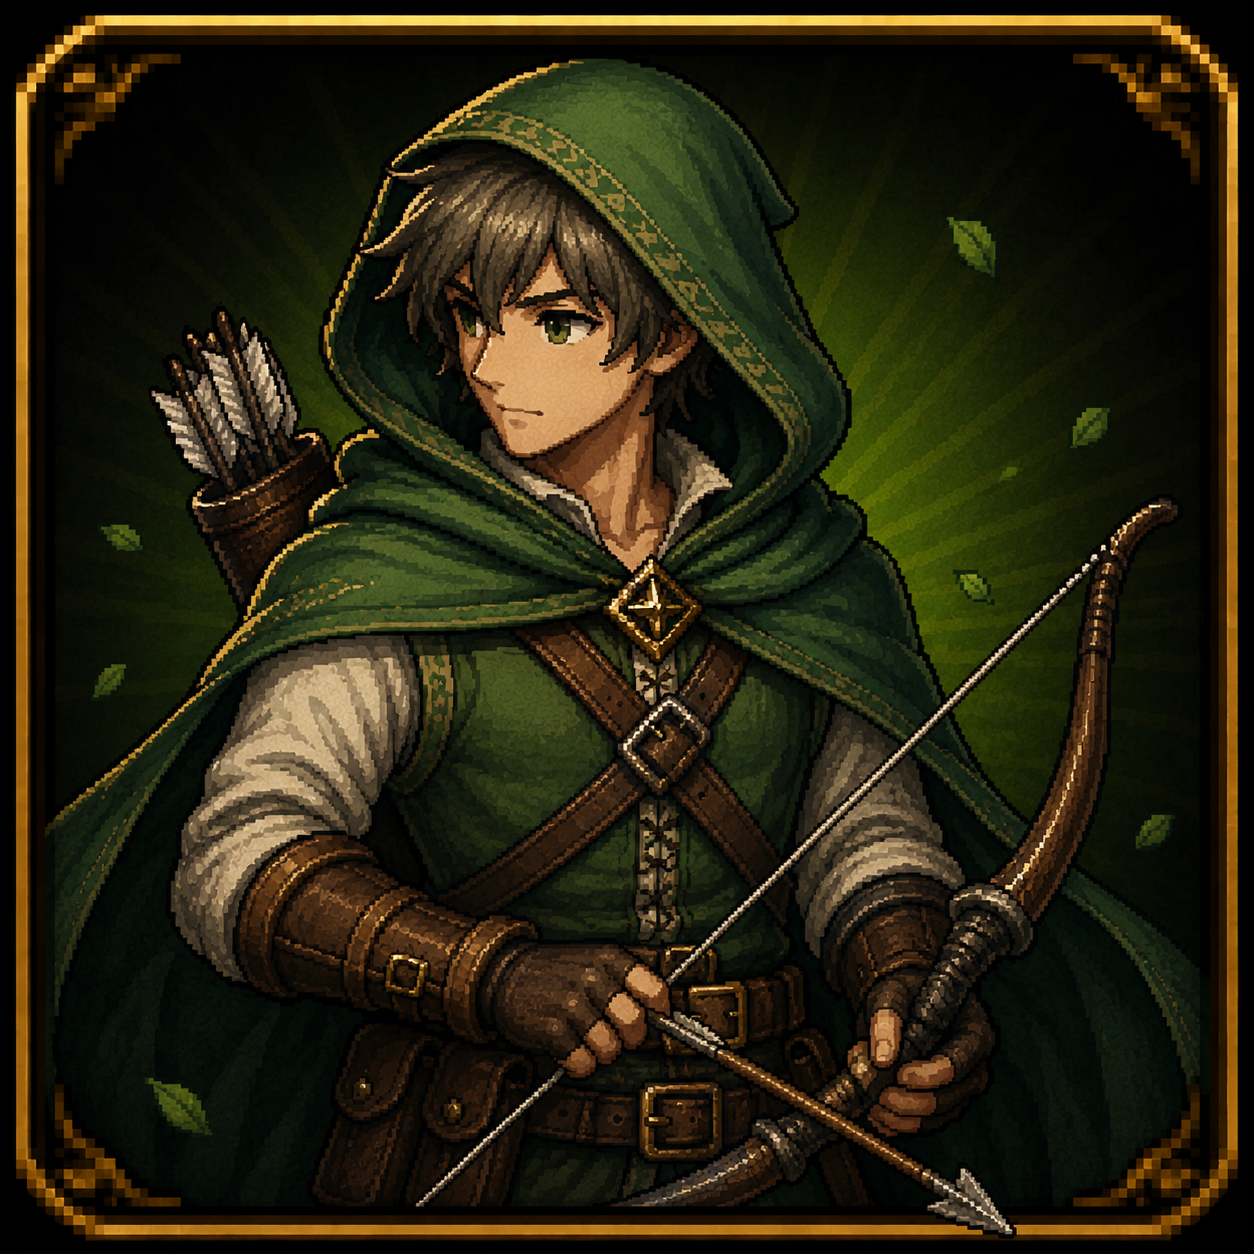
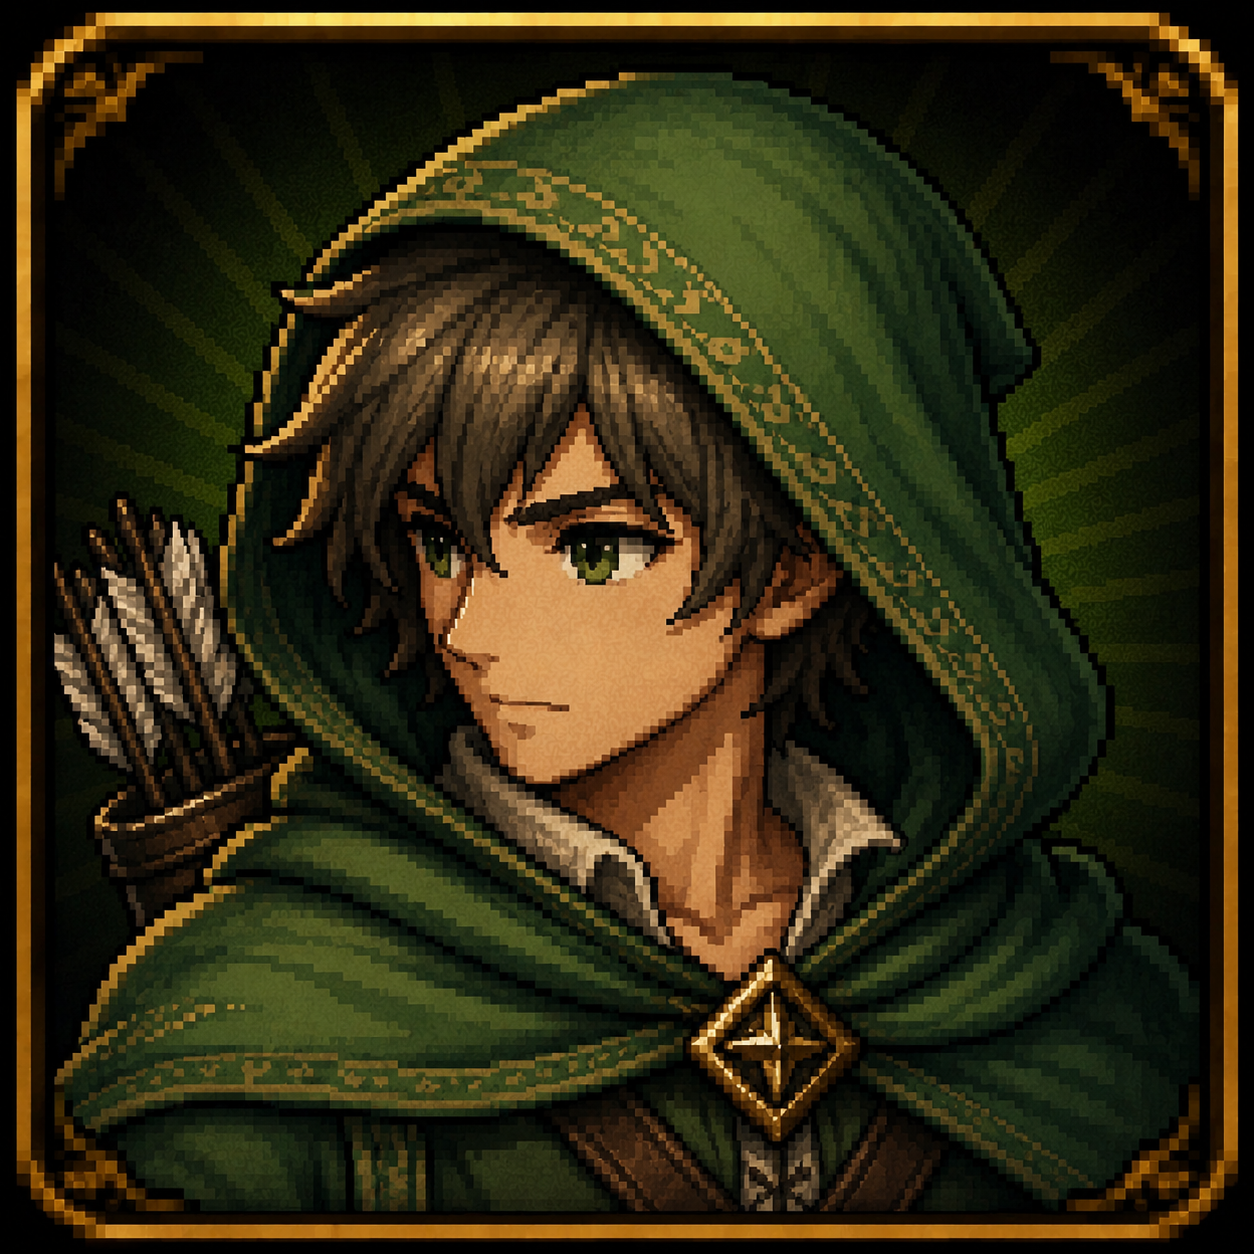
feat(gacha): 助っ人ホダカ追加とリーヴァアイコン更新
★4ホダカを排出プールへ入れ、撃破鼓舞＋行動スキップのパッシブを戦闘に配線する。あわせてリーヴァのCHRアイコンを差し替える。

diff --git a/tools/import_gacha_helper_sprites.py b/tools/import_gacha_helper_sprites.py
@@ -4,10 +4,17 @@
 Same pipeline as import_job_chr_sprites.py (P3-ART-CHR-002):
   walk/attack/hurt/death/idle → assets/characters/{helper_id}/
   SpriteFrames idle(=walk) → resources/animation/CHR_Helper_{suffix}.tres
+
+Optional portrait: ~/Downloads/{名前}.PNG|png → assets/gacha/portraits/ART_HELPER_{id}.png
+
+Usage:
+  python3 tools/import_gacha_helper_sprites.py           # all HELPER_MAP with zips present
+  python3 tools/import_gacha_helper_sprites.py ホダカ    # one helper only
 """
 from __future__ import annotations
 
 import shutil
+import sys
 import unicodedata
 import zipfile
 from pathlib import Path
@@ -19,6 +26,7 @@ ROOT = Path(__file__).resolve().parents[1]
 OUT_ROOT = ROOT / "assets" / "characters"
 ANIM_ROOT = ROOT / "resources" / "animation"
 HELPERS_ROOT = ROOT / "resources" / "gacha_helpers"
+PORTRAIT_ROOT = ROOT / "assets" / "gacha" / "portraits"
 WORK = Path("/tmp/crownfall_gacha_helper_import")
 TARGET = 232
 PAD_RATIO = 0.08
@@ -31,6 +39,7 @@ HELPER_MAP = {
 	"ミラ": ("helper_e", "CHR_Helper_e"),
 	"カイダ": ("helper_f", "CHR_Helper_f"),
 	"ガルム": ("helper_i", "CHR_Helper_i"),
+	"ホダカ": ("helper_p", "CHR_Helper_p"),
 }
 
 ANIM_MAP = {
@@ -47,13 +56,15 @@ def nfc(s: str) -> str:
 	return unicodedata.normalize("NFC", s)
 
 
-def extract_zips() -> Path:
+def extract_zips(only: set[str] | None = None) -> Path:
 	if WORK.exists():
 		shutil.rmtree(WORK)
 	WORK.mkdir(parents=True)
 	for zpath in sorted(DOWNLOADS.glob("*.zip")):
 		name = nfc(zpath.stem)
 		if name not in HELPER_MAP:
+			continue
+		if only is not None and name not in only:
 			continue
 		dest = WORK / name
 		dest.mkdir(parents=True, exist_ok=True)
@@ -232,20 +243,68 @@ def write_sprite_frames(folder_id: str, tres_stem: str, counts: dict[str, int]) 
 	return f"res://resources/animation/{tres_stem}.tres"
 
 
-def patch_helper_tres(helper_id: str, sprite_path: str) -> None:
-	tres_path = HELPERS_ROOT / f"{helper_id}.tres"
-	if not tres_path.exists():
-		raise FileNotFoundError(tres_path)
-	text = tres_path.read_text(encoding="utf-8")
-	needle = 'sprite_resource_path = "'
+def _set_tres_field(text: str, field: str, value: str) -> str:
+	needle = f'{field} = "'
 	start = text.find(needle)
 	if start < 0:
-		raise ValueError(f"{tres_path}: missing sprite_resource_path")
+		raise ValueError(f"missing {field}")
 	start += len(needle)
 	end = text.find('"', start)
-	text = text[:start] + sprite_path + text[end:]
+	return text[:start] + value + text[end:]
+
+
+def find_helper_tres(helper_id: str) -> Path:
+	for candidate in (
+		HELPERS_ROOT / f"{helper_id}.tres",
+		HELPERS_ROOT / "_omitted" / f"{helper_id}.tres",
+	):
+		if candidate.exists():
+			return candidate
+	raise FileNotFoundError(f"helper tres not found: {helper_id}")
+
+
+def patch_helper_tres(helper_id: str, *, sprite_path: str | None = None, portrait_path: str | None = None) -> None:
+	tres_path = find_helper_tres(helper_id)
+	text = tres_path.read_text(encoding="utf-8")
+	if sprite_path is not None:
+		text = _set_tres_field(text, "sprite_resource_path", sprite_path)
+	if portrait_path is not None:
+		text = _set_tres_field(text, "portrait_resource_path", portrait_path)
 	tres_path.write_text(text, encoding="utf-8")
-	print(f"  patched {tres_path.relative_to(ROOT)} → {sprite_path}")
+	bits: list[str] = []
+	if sprite_path:
+		bits.append(f"sprite={sprite_path}")
+	if portrait_path:
+		bits.append(f"portrait={portrait_path}")
+	print(f"  patched {tres_path.relative_to(ROOT)} → {', '.join(bits)}")
+
+
+def find_portrait_source(folder_name: str) -> Path | None:
+	for p in DOWNLOADS.iterdir():
+		if not p.is_file():
+			continue
+		if nfc(p.stem) != folder_name:
+			continue
+		if p.suffix.lower() in (".png", ".jpg", ".jpeg", ".webp"):
+			return p
+	return None
+
+
+def import_portrait(folder_name: str, helper_id: str) -> str | None:
+	src = find_portrait_source(folder_name)
+	if src is None:
+		print(f"  portrait: skip (no ~/Downloads/{folder_name}.PNG)")
+		return None
+	PORTRAIT_ROOT.mkdir(parents=True, exist_ok=True)
+	out = PORTRAIT_ROOT / f"ART_HELPER_{helper_id}.png"
+	im = Image.open(src).convert("RGBA")
+	im.save(out)
+	# .import は Godot `--import` に任せる（手書き dest hash は壊れる）
+	old_imp = out.with_suffix(out.suffix + ".import")
+	if old_imp.exists():
+		old_imp.unlink()
+	print(f"  portrait: {src.name} → {out.relative_to(ROOT)} ({im.size[0]}x{im.size[1]})")
+	return f"res://assets/gacha/portraits/{out.name}"
 
 
 def process_helper(folder_name: str, helper_id: str, tres_stem: str) -> None:
@@ -261,15 +320,25 @@ def process_helper(folder_name: str, helper_id: str, tres_stem: str) -> None:
 		names = export_anim(src, helper_id, key)
 		counts[key] = len(names)
 	sprite_path = write_sprite_frames(helper_id, tres_stem, counts)
-	patch_helper_tres(helper_id, sprite_path)
+	portrait_path = import_portrait(folder_name, helper_id)
+	patch_helper_tres(helper_id, sprite_path=sprite_path, portrait_path=portrait_path)
 
 
 def main() -> None:
-	extract_zips()
-	missing = [n for n in HELPER_MAP if not any(nfc(p.name) == n for p in WORK.iterdir())]
+	only: set[str] | None = None
+	if len(sys.argv) > 1:
+		only = {nfc(a) for a in sys.argv[1:]}
+		unknown = only - set(HELPER_MAP)
+		if unknown:
+			raise SystemExit(f"unknown helper name(s): {sorted(unknown)}")
+	extract_zips(only)
+	targets = only if only is not None else set(HELPER_MAP)
+	present = {nfc(p.name) for p in WORK.iterdir() if p.is_dir()}
+	missing = sorted(targets - present)
 	if missing:
 		raise SystemExit(f"missing zips/folders: {missing}")
-	for folder, (helper_id, tres_stem) in HELPER_MAP.items():
+	for folder in sorted(targets):
+		helper_id, tres_stem = HELPER_MAP[folder]
 		process_helper(folder, helper_id, tres_stem)
 	print("\nDONE")
 

diff --git a/resources/gacha_helpers/_omitted/README.md b/resources/gacha_helpers/_omitted/README.md
@@ -1,6 +1,6 @@
 # ガチャプール外助っ人（P3-GACHA-008 / P3-GACHA-STAGED-001）
 
-現行排出プールは直下の6体のみ（★2×3 / ★3×2 / ★4×1）。
+現行排出プールは直下の7体（★2×3 / ★3×2 / ★4×2。ホダカ昇格済）。
 
 ここにある `.tres` は **排出対象外**（データ残置・将来昇格／旧セーブ同期用）。
 
